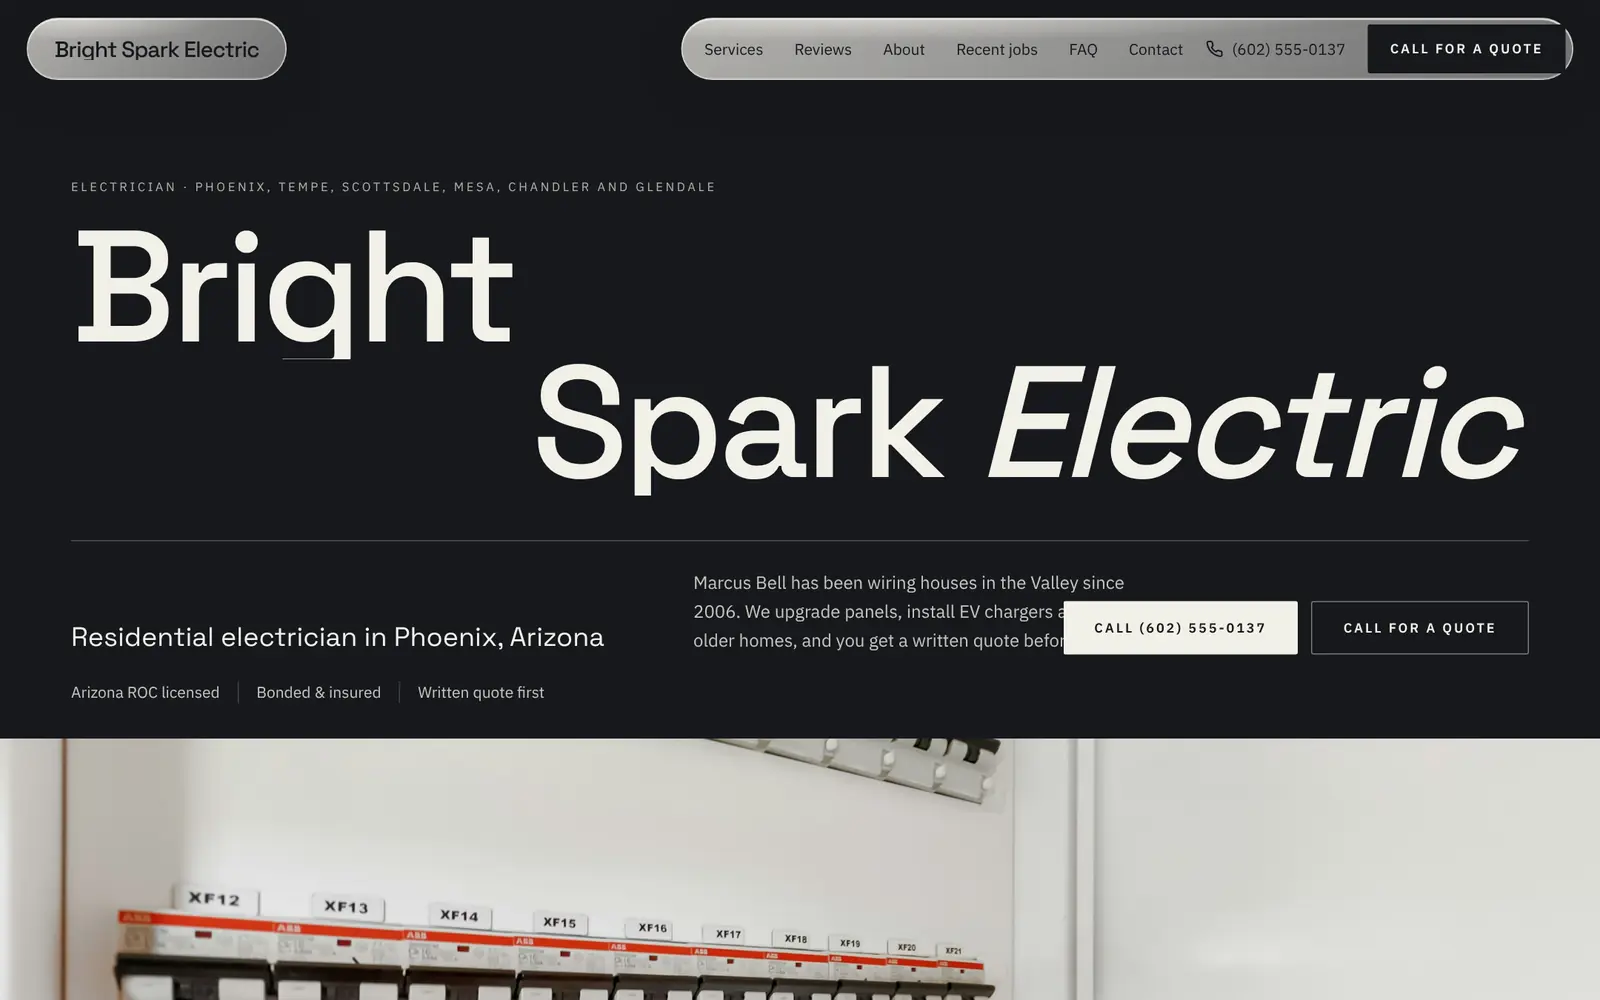
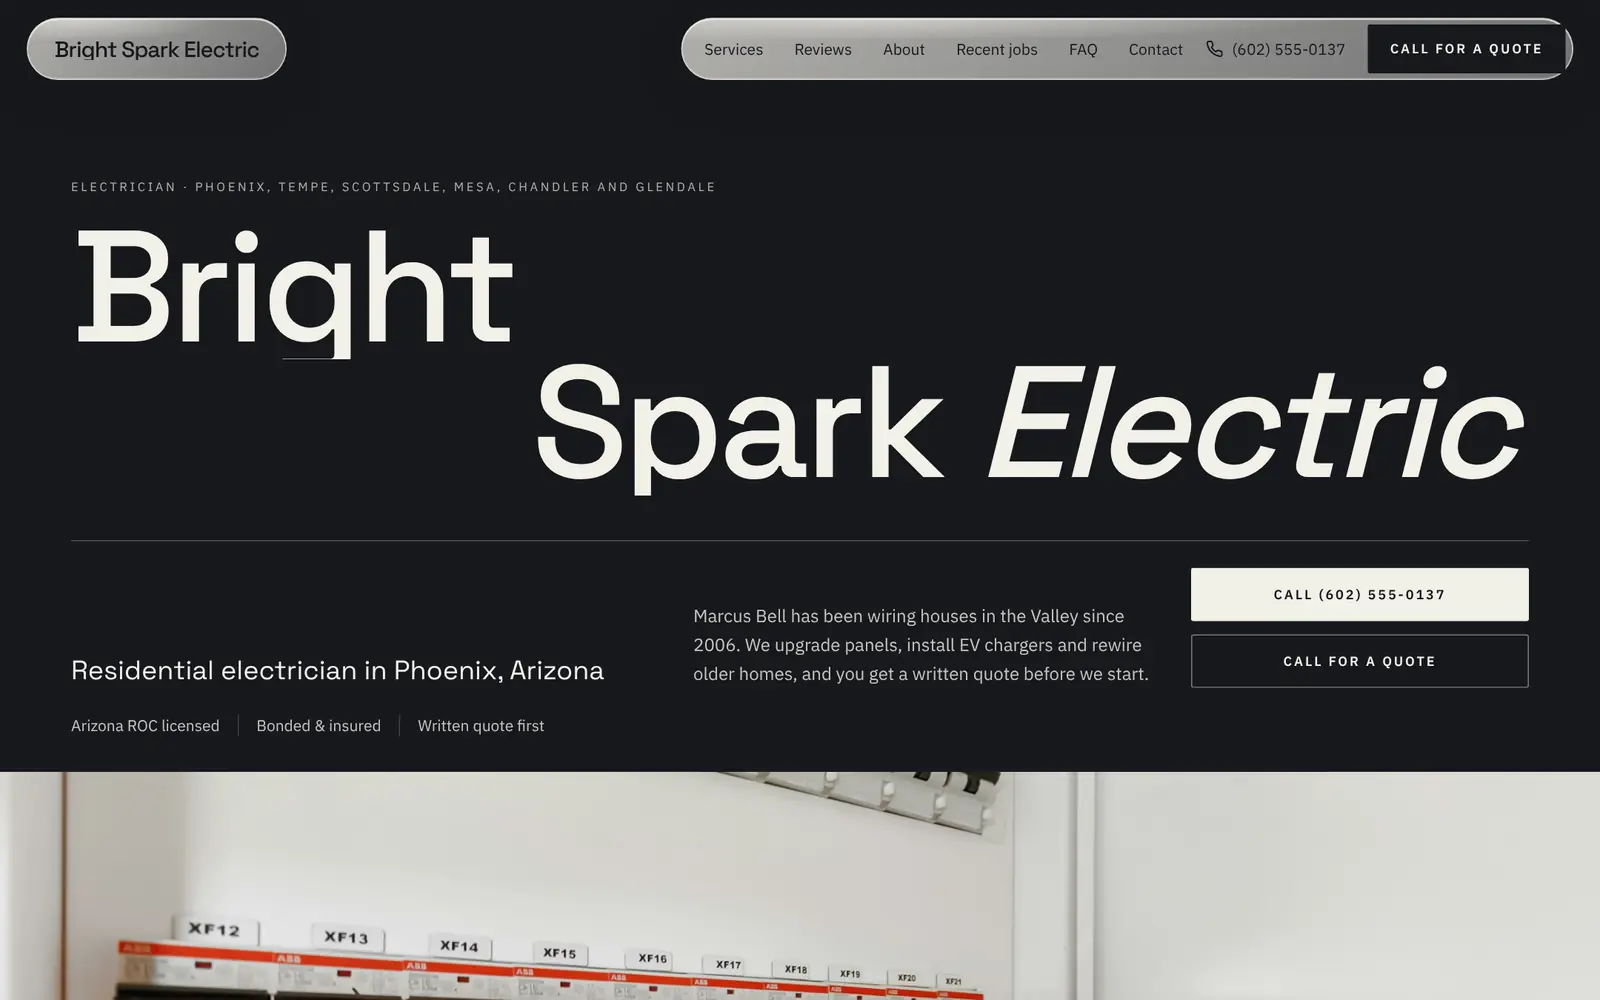
fix(templates): stack hero buttons so they never cover the intro text
On the modular and typographic Signature heroes the buttons sat in a narrow
column and overflowed onto the intro paragraph at desktop widths. Stack them
in that column and refresh the landing screenshots that showed the bug.

Claude-Session: https://claude.ai/code/session_01NSDTc6FprdYm78GF2frN5D

Changed region(s): [[0.0, 0.62, 1.0, 0.837], [0.4375, 0.558, 0.9688, 0.682], [0.0625, 0.899, 0.625, 1.0]]

diff --git a/packages/templates/src/compositions/Signature.tsx b/packages/templates/src/compositions/Signature.tsx
@@ -254,7 +254,16 @@ function GlassNav({ model }: { model: SiteModel }) {
 }
 
 /** Botões do topo (o primeiro é a ação principal do plano). */
-function Actions({ model, tone }: { model: SiteModel; tone: "light" | "dark" }) {
+function Actions({
+  model,
+  tone,
+  stack = false,
+}: {
+  model: SiteModel;
+  tone: "light" | "dark";
+  /** Coluna estreita do topo (3 de 12): no computador os botões ficam um embaixo do outro. */
+  stack?: boolean;
+}) {
   const { ctaHref, ctaLabel, phoneHref, business, primaryAction } = model;
   const solid =
     tone === "light"
@@ -284,7 +293,7 @@ function Actions({ model, tone }: { model: SiteModel; tone: "light" | "dark" }) 
     </a>
   );
   return (
-    <div className="flex flex-col gap-3 @min-[40rem]:flex-row">
+    <div className={`flex flex-col gap-3 @min-[40rem]:flex-row ${stack ? "@5xl:flex-col" : ""}`}>
       {callFirst ? [call(true), cta(false)] : [cta(true), call(false)]}
     </div>
   );
@@ -501,8 +510,8 @@ function SignatureHero({
           <p className="ns-hero-fade max-w-md leading-relaxed text-ns-muted @5xl:col-span-4">
             {data.subtitle}
           </p>
-          <div className="ns-hero-fade @5xl:col-span-3 @5xl:justify-self-end">
-            <Actions model={model} tone="dark" />
+          <div className="ns-hero-fade @5xl:col-span-3">
+            <Actions model={model} tone="dark" stack />
           </div>
         </div>
         <HighlightList
@@ -555,8 +564,8 @@ function SignatureHero({
           <p className="ns-hero-fade max-w-md leading-relaxed opacity-80 @5xl:col-span-4">
             {data.subtitle}
           </p>
-          <div className="ns-hero-fade @5xl:col-span-3 @5xl:justify-self-end">
-            <Actions model={model} tone="light" />
+          <div className="ns-hero-fade @5xl:col-span-3">
+            <Actions model={model} tone="light" stack />
           </div>
         </div>
         <HighlightList highlights={business.highlights} className="ns-hero-fade mt-6 opacity-80" />
